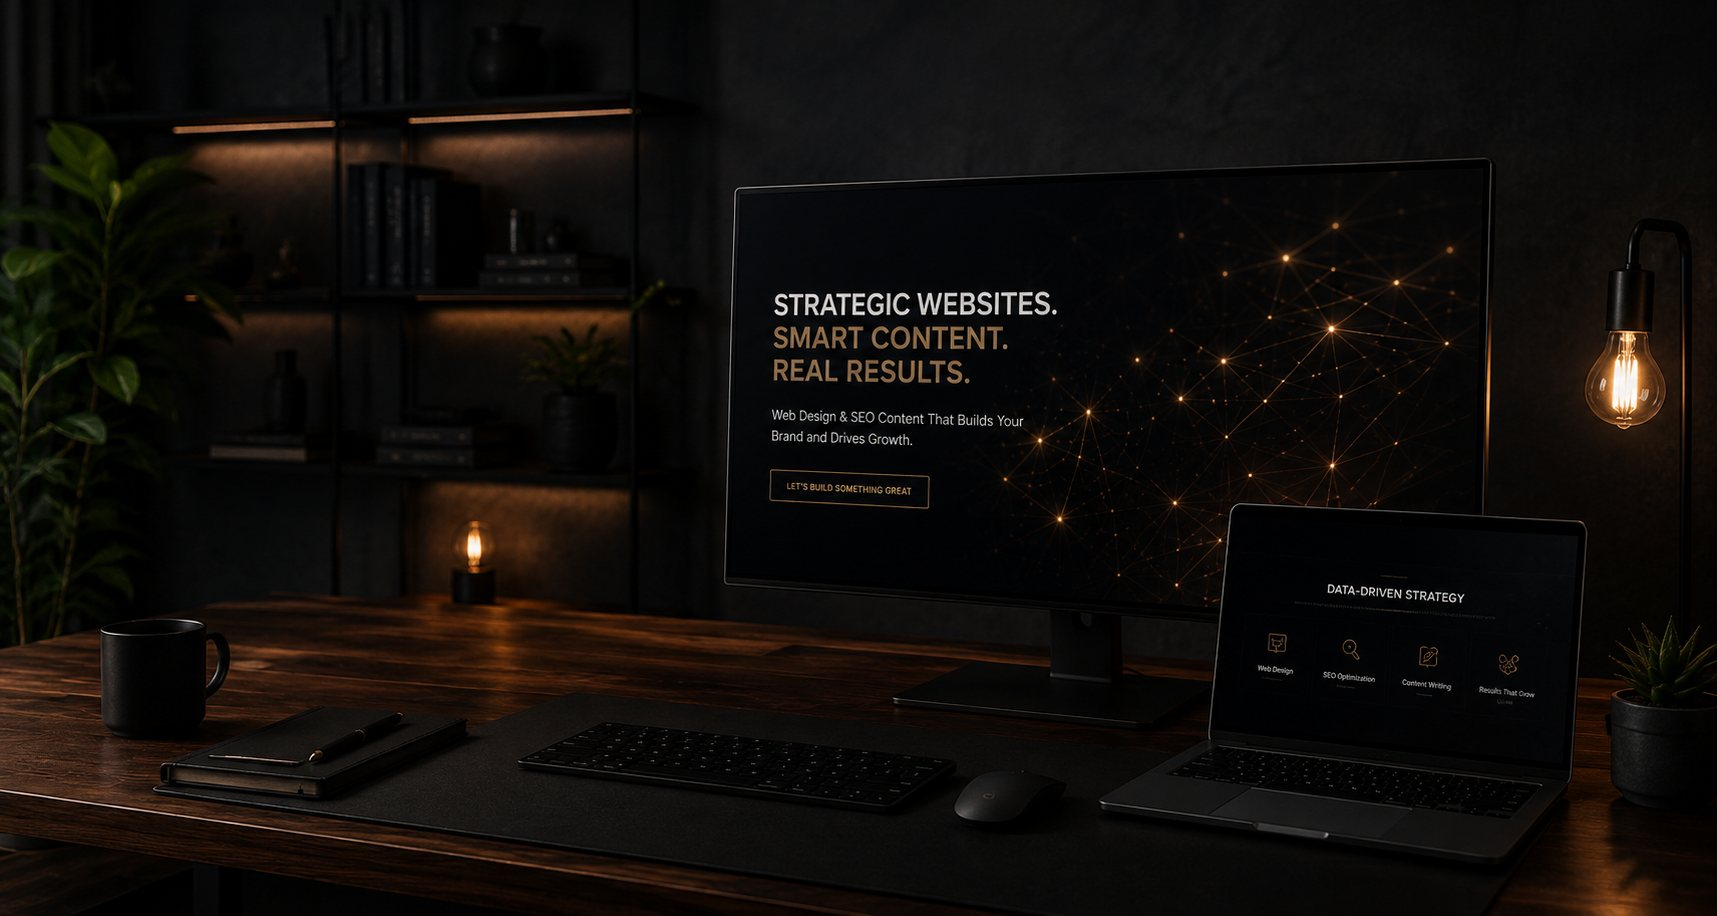
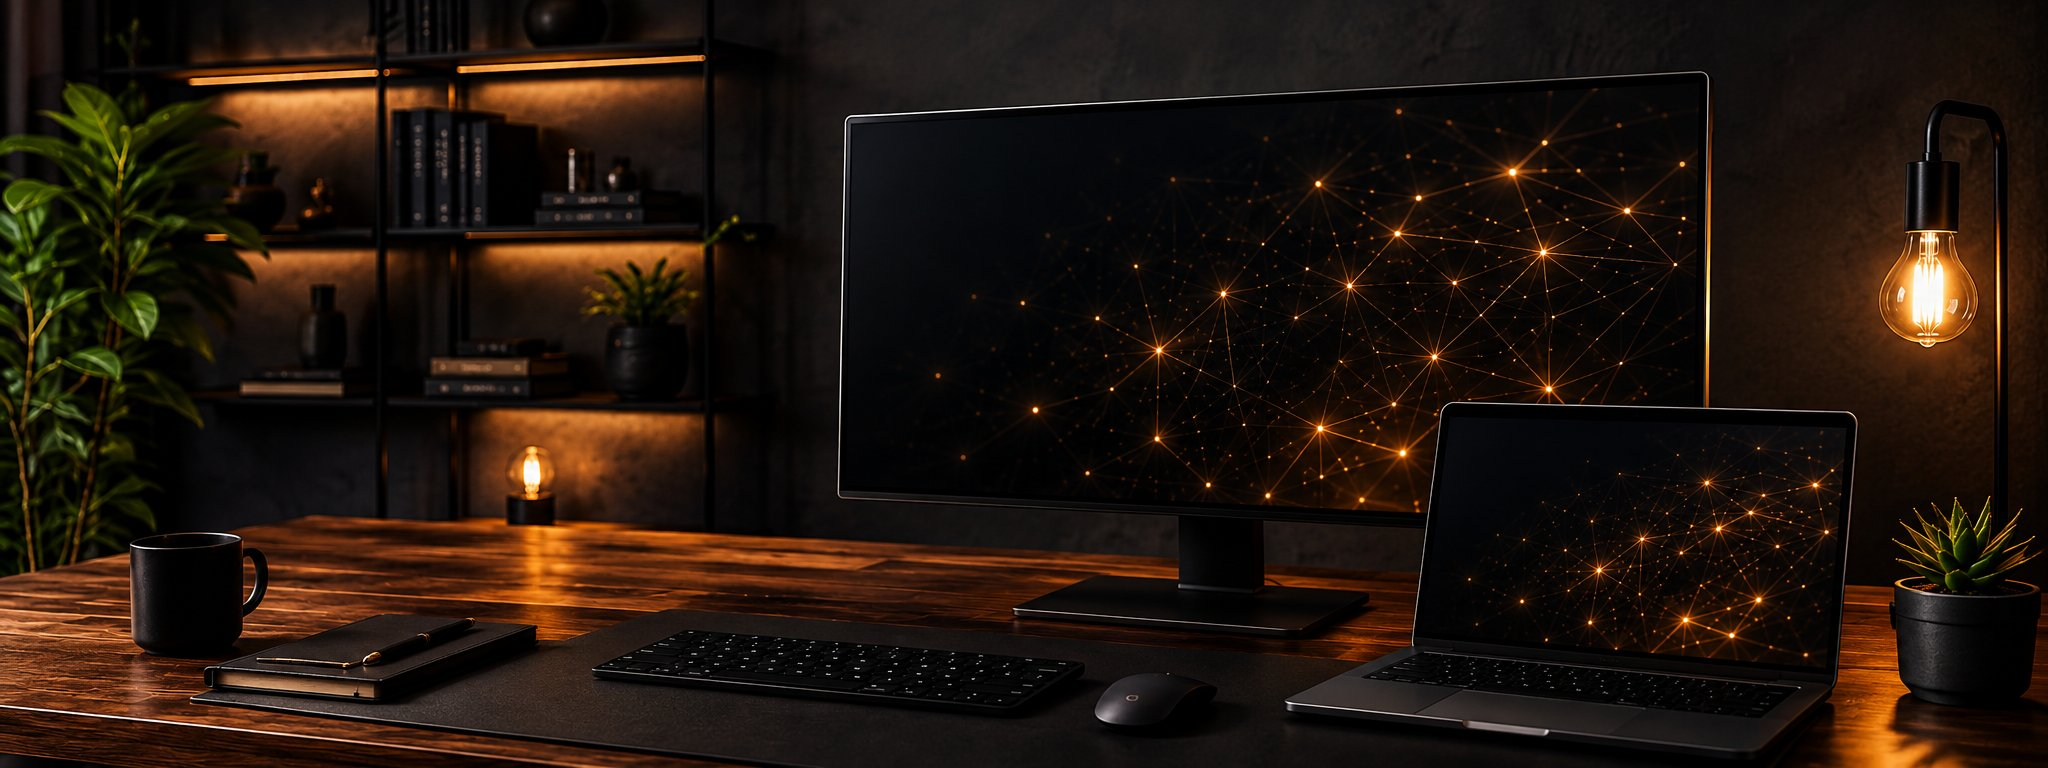
Replace homepage hero photo, fill full width without cropping or letterboxing
Swaps the hero cover image and resizes the photo layer to match its own
aspect ratio at full viewport width, so it fills edge to edge with only a
minimal symmetric top/bottom crop instead of the old right-aligned 62%
layout or the letterboxed full-contain attempt. Also lightens the scrim to
a 5% fade and adds a subtle text-shadow to the hero paragraph for contrast.

diff --git a/freelance_site/static/style.css b/freelance_site/static/style.css
@@ -216,14 +216,13 @@ img, canvas { max-width: 100%; display: block; }
 
 .hero-photo {
   position: absolute;
-  top: 0;
-  right: 0;
-  bottom: 0;
-  left: auto;
-  width: 62%;
-  height: 100%;
+  top: 50%;
+  left: 0;
+  width: 100%;
+  height: auto;
+  aspect-ratio: 2048 / 768;
+  transform: translateY(-50%);
   object-fit: cover;
-  object-position: center center;
   mix-blend-mode: screen;
   opacity: 0.92;
 }
@@ -233,11 +232,7 @@ img, canvas { max-width: 100%; display: block; }
   inset: 0;
   background: linear-gradient(90deg,
     var(--bg) 0%,
-    var(--bg) 30%,
-    rgba(10,10,11,0.8) 35%,
-    rgba(10,10,11,0.5) 40%,
-    rgba(10,10,11,0.25) 45%,
-    transparent 50%);
+    transparent 5%);
 }
 
 @media (max-width: 860px) {
@@ -268,6 +263,7 @@ img, canvas { max-width: 100%; display: block; }
   font-size: 1.1rem;
   max-width: 440px;
   margin: 22px 0 40px;
+  text-shadow: 0 2px 14px rgba(0, 0, 0, 0.85), 0 0 4px rgba(0, 0, 0, 0.6);
 }
 
 .hero-inner.centered .hero-sub { margin-left: auto; margin-right: auto; }
